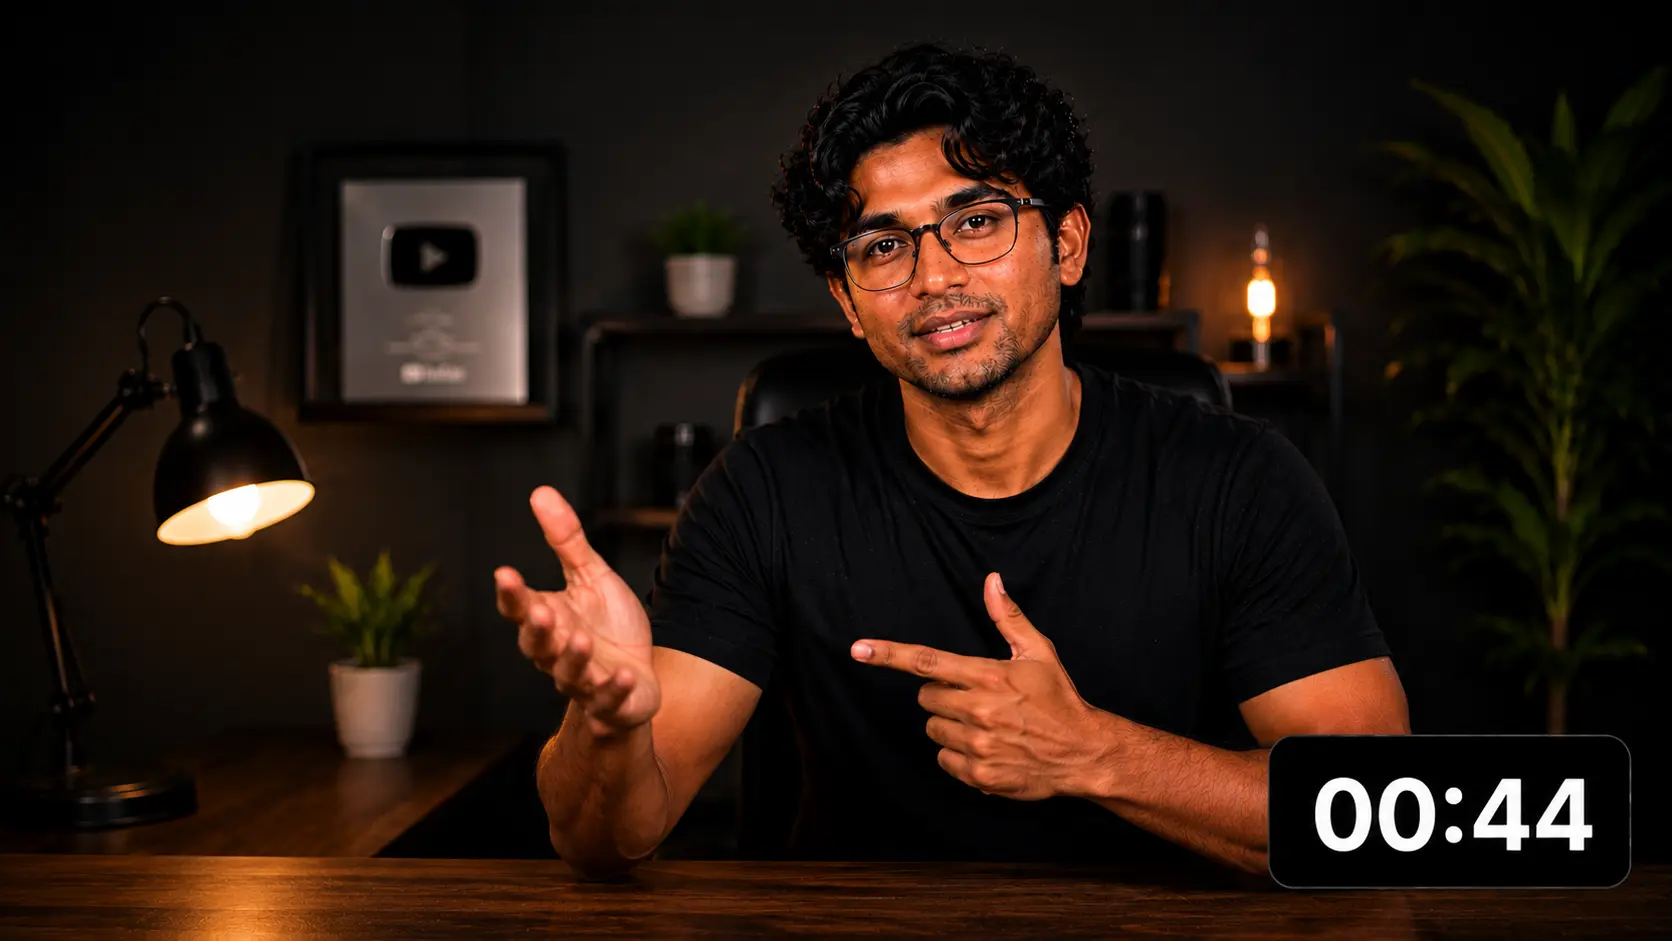
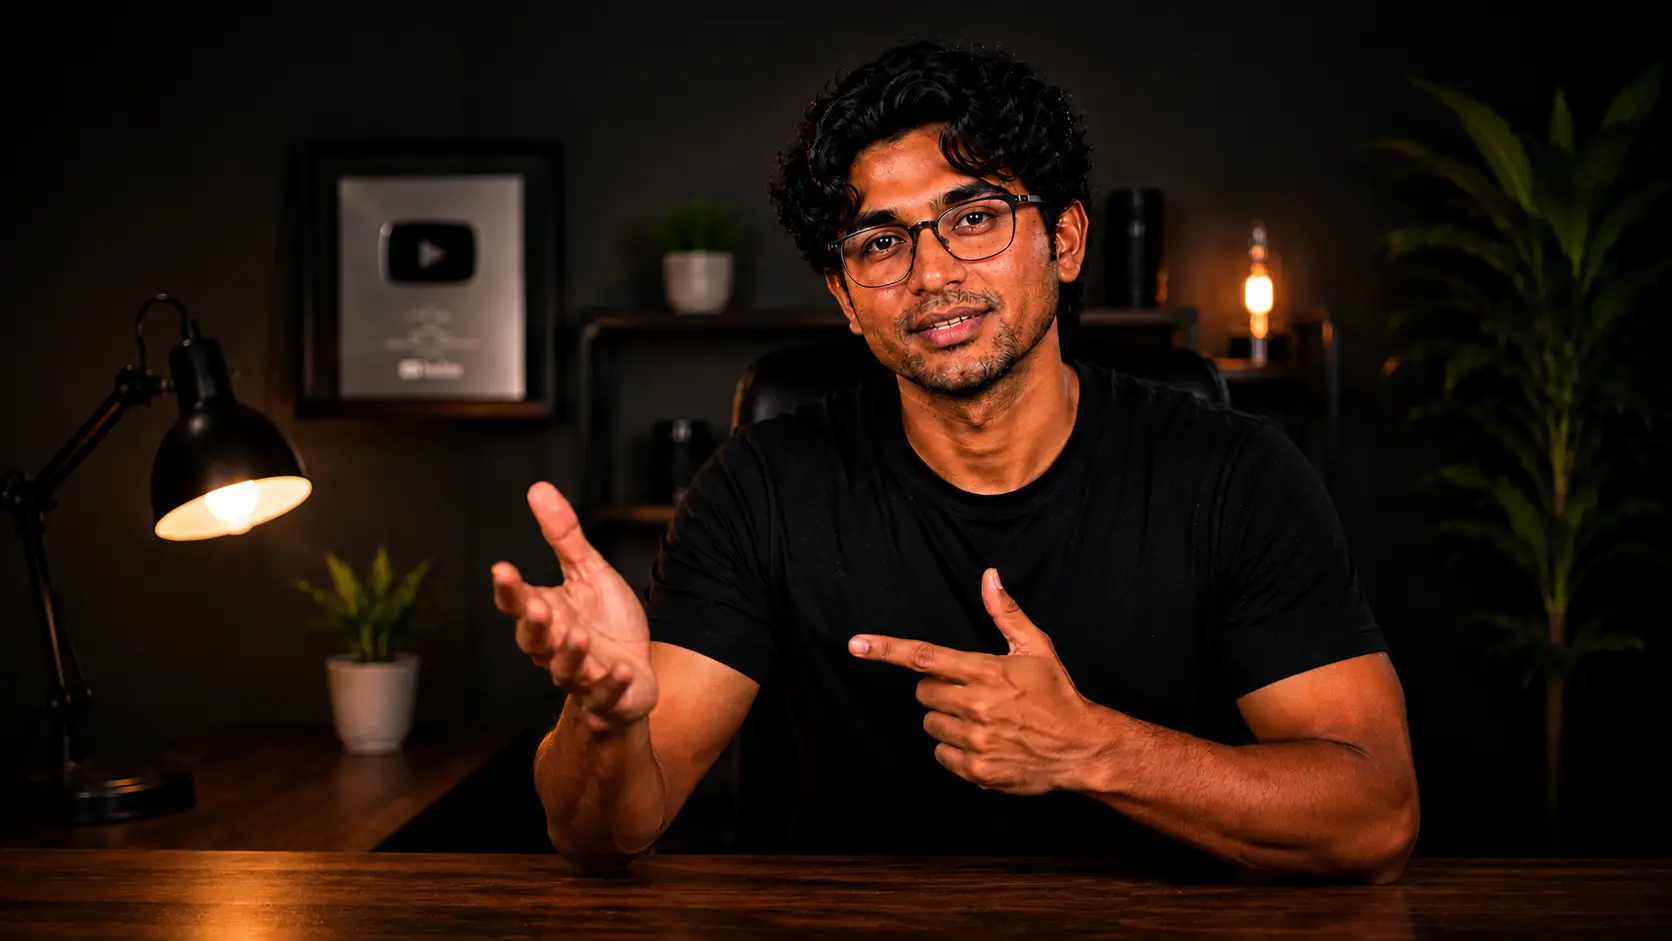
update images and added duration display in clip result and top perfoming clips

diff --git a/src/hooks/PerformingClips.ts b/src/hooks/PerformingClips.ts
@@ -19,6 +19,7 @@ export function performingClipData(): PerformingClipTypes[] {
       id: 1,
       thumbnail: clip1,
       title: t('clips-title.clip1-title'),
+      duration: '00:58',
       viralScore: 84,
       views: 6100,
       likes: 578,
@@ -29,6 +30,7 @@ export function performingClipData(): PerformingClipTypes[] {
       id: 2,
       thumbnail: clip2,
       title: t('clips-title.clip2-title'),
+      duration: '00:45',
       viralScore: 97,
       views: 15400,
       likes: 1425,
@@ -39,6 +41,7 @@ export function performingClipData(): PerformingClipTypes[] {
       id: 3,
       thumbnail: clip3,
       title: t('clips-title.clip3-title'),
+      duration: '01:02',
       viralScore: 79,
       views: 2900,
       likes: 284,
@@ -49,6 +52,7 @@ export function performingClipData(): PerformingClipTypes[] {
       id: 4,
       thumbnail: clip4,
       title: t('clips-title.clip4-title'),
+      duration: '00:50',
       viralScore: 91,
       views: 8700,
       likes: 943,
@@ -59,6 +63,7 @@ export function performingClipData(): PerformingClipTypes[] {
       id: 5,
       thumbnail: clip5,
       title: t('clips-title.clip5-title'),
+      duration: '00:47',
       viralScore: 86,
       views: 7300,
       likes: 664,
@@ -69,6 +74,7 @@ export function performingClipData(): PerformingClipTypes[] {
       id: 6,
       thumbnail: clip6,
       title: t('clips-title.clip6-title'),
+      duration: '00:39',
       viralScore: 99,
       views: 22100,
       likes: 2190,
@@ -79,6 +85,7 @@ export function performingClipData(): PerformingClipTypes[] {
       id: 7,
       thumbnail: clip7,
       title: t('clips-title.clip7-title'),
+      duration: '00:44',
       viralScore: 82,
       views: 4700,
       likes: 421,
@@ -89,6 +96,7 @@ export function performingClipData(): PerformingClipTypes[] {
       id: 8,
       thumbnail: clip8,
       title: t('clips-title.clip8-title'),
+      duration: '00:41',
       viralScore: 88,
       views: 9600,
       likes: 1108,
@@ -99,6 +107,7 @@ export function performingClipData(): PerformingClipTypes[] {
       id: 9,
       thumbnail: clip9,
       title: t('clips-title.clip9-title'),
+      duration: '00:44',
       viralScore: 94,
       views: 13200,
       likes: 1315,
@@ -109,6 +118,7 @@ export function performingClipData(): PerformingClipTypes[] {
       id: 10,
       thumbnail: clip10,
       title: t('clips-title.clip10-title'),
+      duration: '01:15',
       viralScore: 81,
       views: 3900,
       likes: 352,
@@ -119,6 +129,7 @@ export function performingClipData(): PerformingClipTypes[] {
       id: 11,
       thumbnail: clip6,
       title: t('clips-title.clip10-title'),
+      duration: '01:30',
       viralScore: 0,
       views: 0,
       likes: 0,

diff --git a/src/hooks/overview/RecentProject.ts b/src/hooks/overview/RecentProject.ts
@@ -16,6 +16,7 @@ export function recentProjectData(): RecentProjectTypes[] {
       id: 1,
       thumbnail: thumbnail1,
       title: t('overview.project-title-1'),
+      duration: '47:23',
       uploadedAt: t('overview.uploaded-at-1'),
       status: 'processing',
     },
@@ -23,6 +24,7 @@ export function recentProjectData(): RecentProjectTypes[] {
       id: 2,
       thumbnail: thumbnail2,
       title: t('overview.project-title-2'),
+      duration: '32:18',
       uploadedAt: t('overview.uploaded-at-2'),
       status: 'ready',
     },
@@ -30,6 +32,7 @@ export function recentProjectData(): RecentProjectTypes[] {
       id: 3,
       thumbnail: thumbnail3,
       title: t('overview.project-title-3'),
+      duration: '28:54',
       uploadedAt: t('overview.uploaded-at-3'),
       status: 'ready',
     },
@@ -37,6 +40,7 @@ export function recentProjectData(): RecentProjectTypes[] {
       id: 4,
       thumbnail: thumbnail4,
       title: t('overview.project-title-4'),
+      duration: '1:02:11',
       uploadedAt: t('overview.uploaded-at-4'),
       status: 'exported',
     },
@@ -44,6 +48,7 @@ export function recentProjectData(): RecentProjectTypes[] {
       id: 5,
       thumbnail: thumbnail5,
       title: t('overview.project-title-5'),
+      duration: '45:00',
       uploadedAt: t('overview.uploaded-at-5'),
       status: 'exported',
     },
@@ -51,6 +56,7 @@ export function recentProjectData(): RecentProjectTypes[] {
       id: 6,
       thumbnail: thumbnail6,
       title: t('overview.project-title-6'),
+      duration: '28:30',
       uploadedAt: t('overview.uploaded-at-6'),
       status: 'ready',
     },
@@ -58,6 +64,7 @@ export function recentProjectData(): RecentProjectTypes[] {
       id: 7,
       thumbnail: thumbnail7,
       title: t('overview.project-title-7'),
+      duration: '36:45',
       uploadedAt: t('overview.uploaded-at-7'),
       status: 'exported',
     },

diff --git a/src/components/dashboard/overview/PerformingClipCard.tsx b/src/components/dashboard/overview/PerformingClipCard.tsx
@@ -3,6 +3,7 @@ import { useTranslation } from 'react-i18next';
 import { Typography } from '../../ui/Typography';
 import { ClipIcons } from '../../icons/ClipIcons';
 import { colors } from '@/lib/colors/colors';
+import { formatNumber } from '@/utils/ClipoUtils';
 
 interface PerformingClipCardProps {
   clip: PerformingClipTypes;
@@ -13,8 +14,14 @@ export default function PerformingClipCard({ clip }: PerformingClipCardProps) {
 
   return (
     <div className="overflow-hidden rounded-md bg-white transition-all hover:scale-105">
-      <div className="h-[90px] w-[160px] overflow-hidden rounded-lg">
+      <div className="relative h-[90px] w-[160px] overflow-hidden rounded-lg">
         <img src={clip.thumbnail} alt={clip.title} className="object-cover" />
+
+        <div className="absolute right-1 bottom-1 rounded-md bg-black/70 px-2 py-1">
+          <Typography variant="caption" color="white" cursor="default">
+            {clip.duration}
+          </Typography>
+        </div>
       </div>
 
       <div className="px-2 py-1">
@@ -35,7 +42,7 @@ export default function PerformingClipCard({ clip }: PerformingClipCardProps) {
             className="flex items-center gap-1"
           >
             <ClipIcons icon="EyeIcon" size={18} color={colors.neutral400} />
-            {clip.views}
+            {formatNumber(clip.views)}
           </Typography>
         </div>
       </div>

diff --git a/src/components/ui/clip-card/ClipCards.tsx b/src/components/ui/clip-card/ClipCards.tsx
@@ -12,8 +12,14 @@ interface ClipCardsProps {
 export default function ClipCards({ clip }: ClipCardsProps) {
   return (
     <div className="border-default shadow-default flex h-full flex-col overflow-hidden rounded-2xl bg-white transition-all hover:scale-105">
-      <div className="overflow-hidden">
+      <div className="relative overflow-hidden">
         <img src={clip.thumbnail} alt={clip.title} className="aspect-video w-full object-cover" />
+
+        <div className="absolute right-3 bottom-3 rounded-md bg-black/70 px-2 py-1">
+          <Typography variant="body-sm" color="white" cursor="default">
+            {clip.duration}
+          </Typography>
+        </div>
       </div>
 
       <div className="flex flex-1 flex-col p-3">

diff --git a/src/types/OverViewTypes.ts b/src/types/OverViewTypes.ts
@@ -6,6 +6,7 @@ export interface RecentProjectTypes {
   id: number;
   thumbnail: string;
   title: string;
+  duration: string;
   uploadedAt: string;
   status: StatusBadgeTypes;
 }
@@ -35,6 +36,7 @@ export interface PerformingClipTypes {
   id: number;
   thumbnail: string;
   title: string;
+  duration: string;
   viralScore: number;
   status: StatusBadgeTypes;
   views: number;
